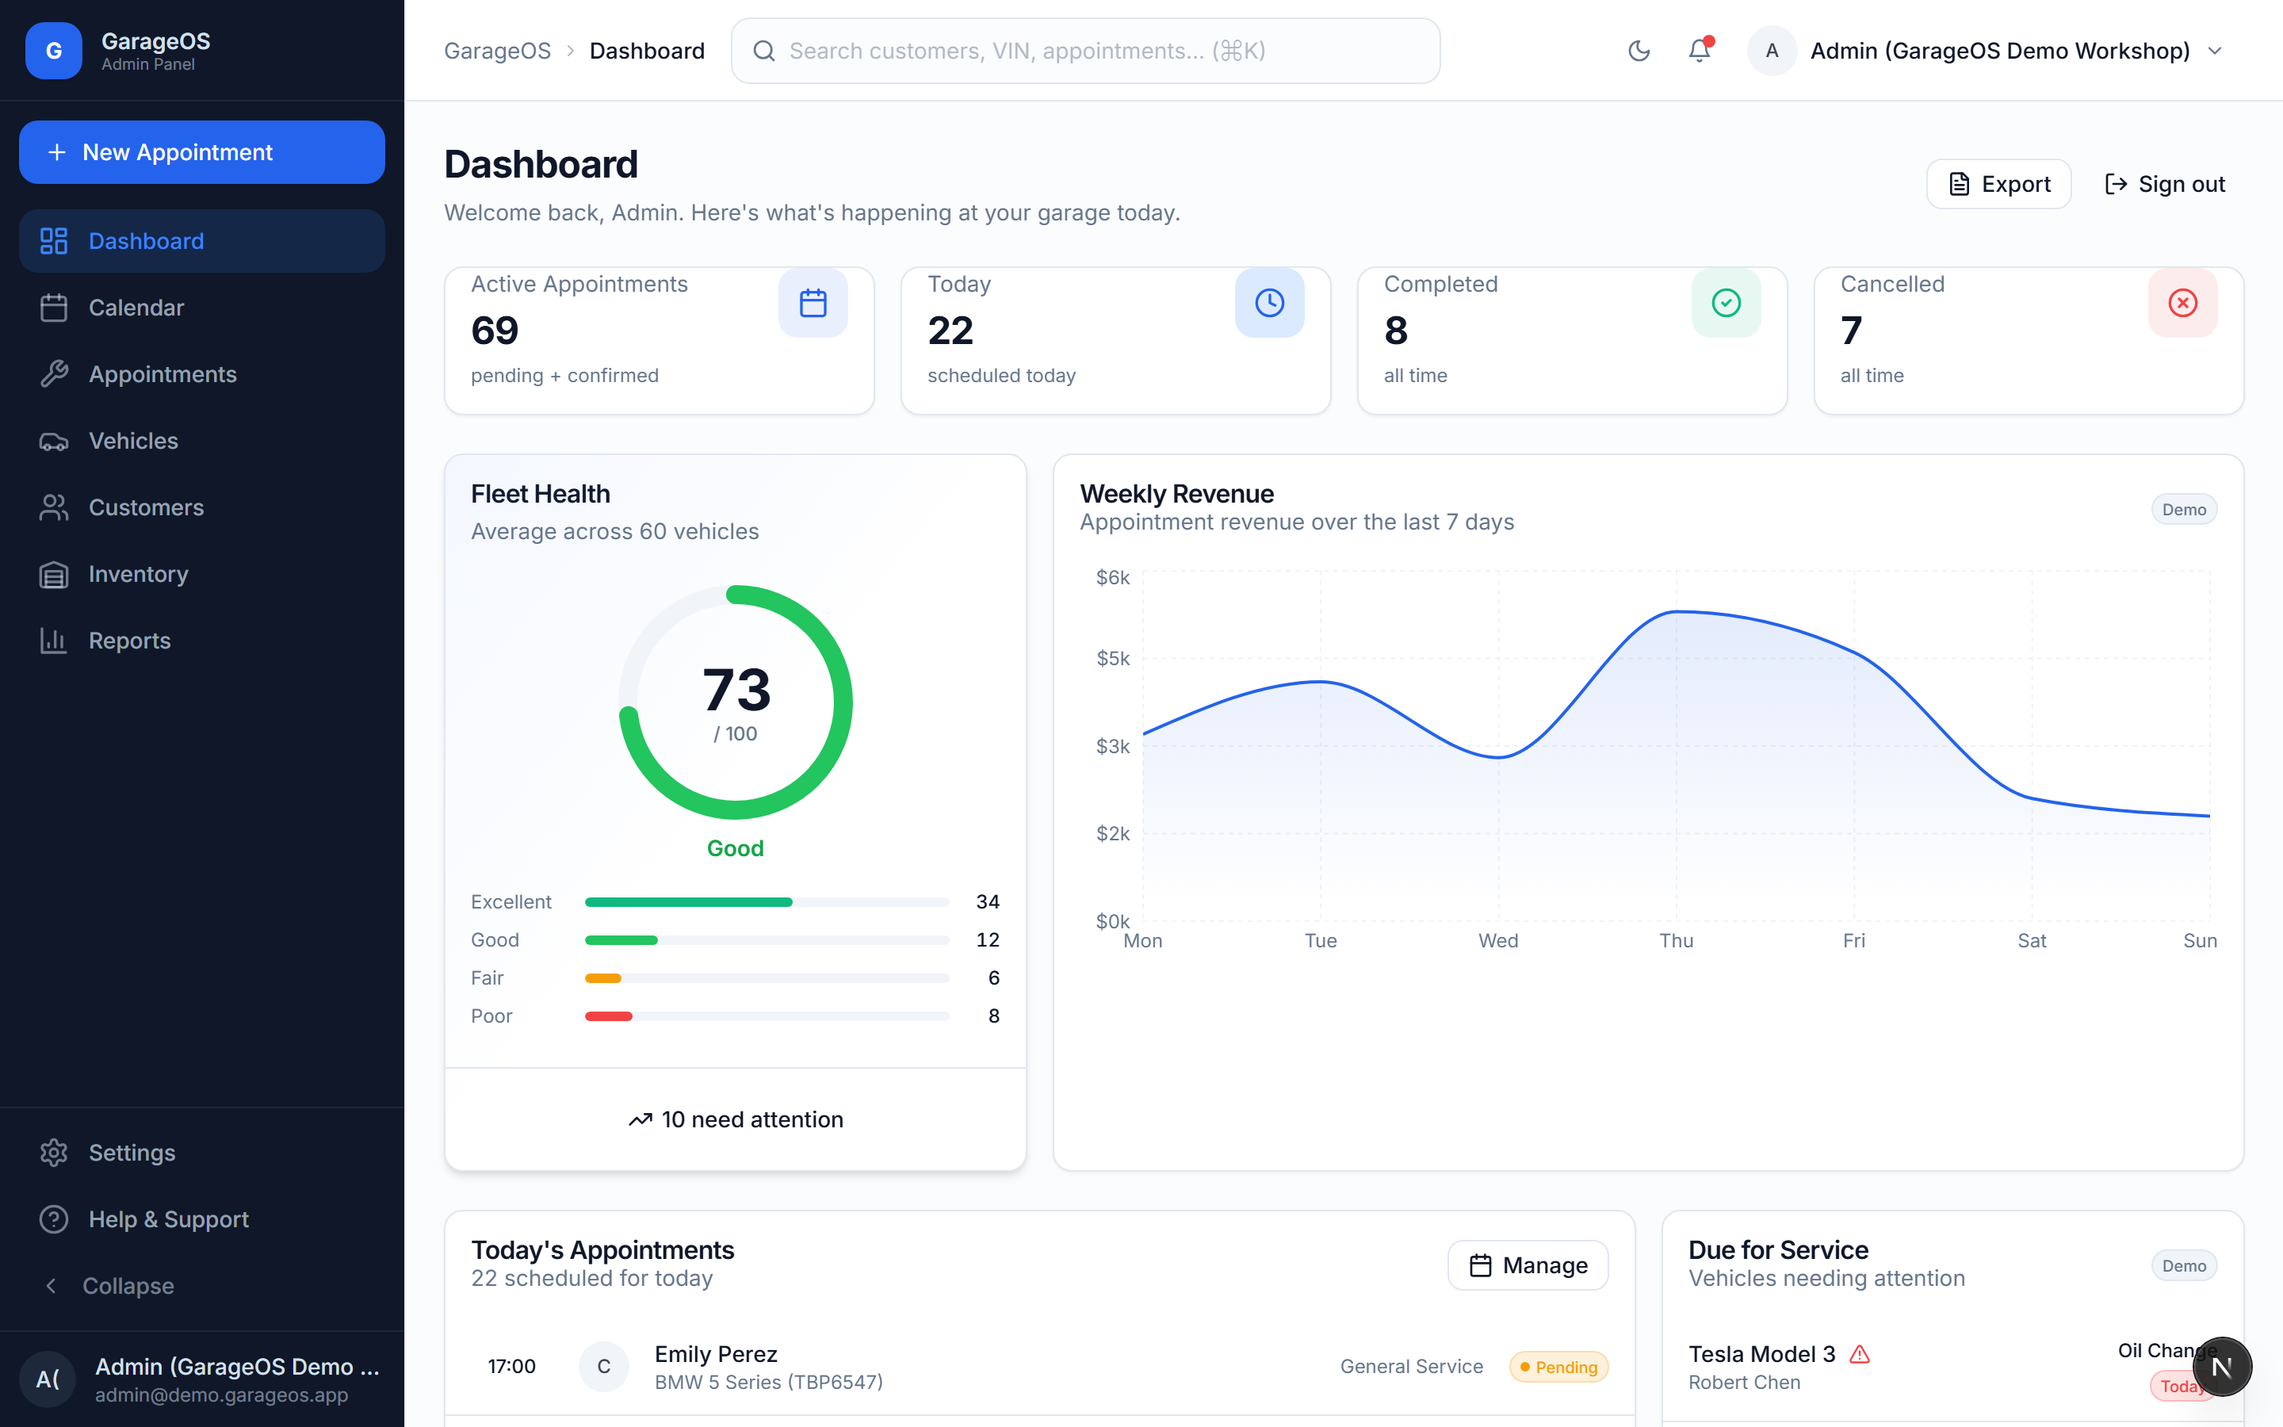
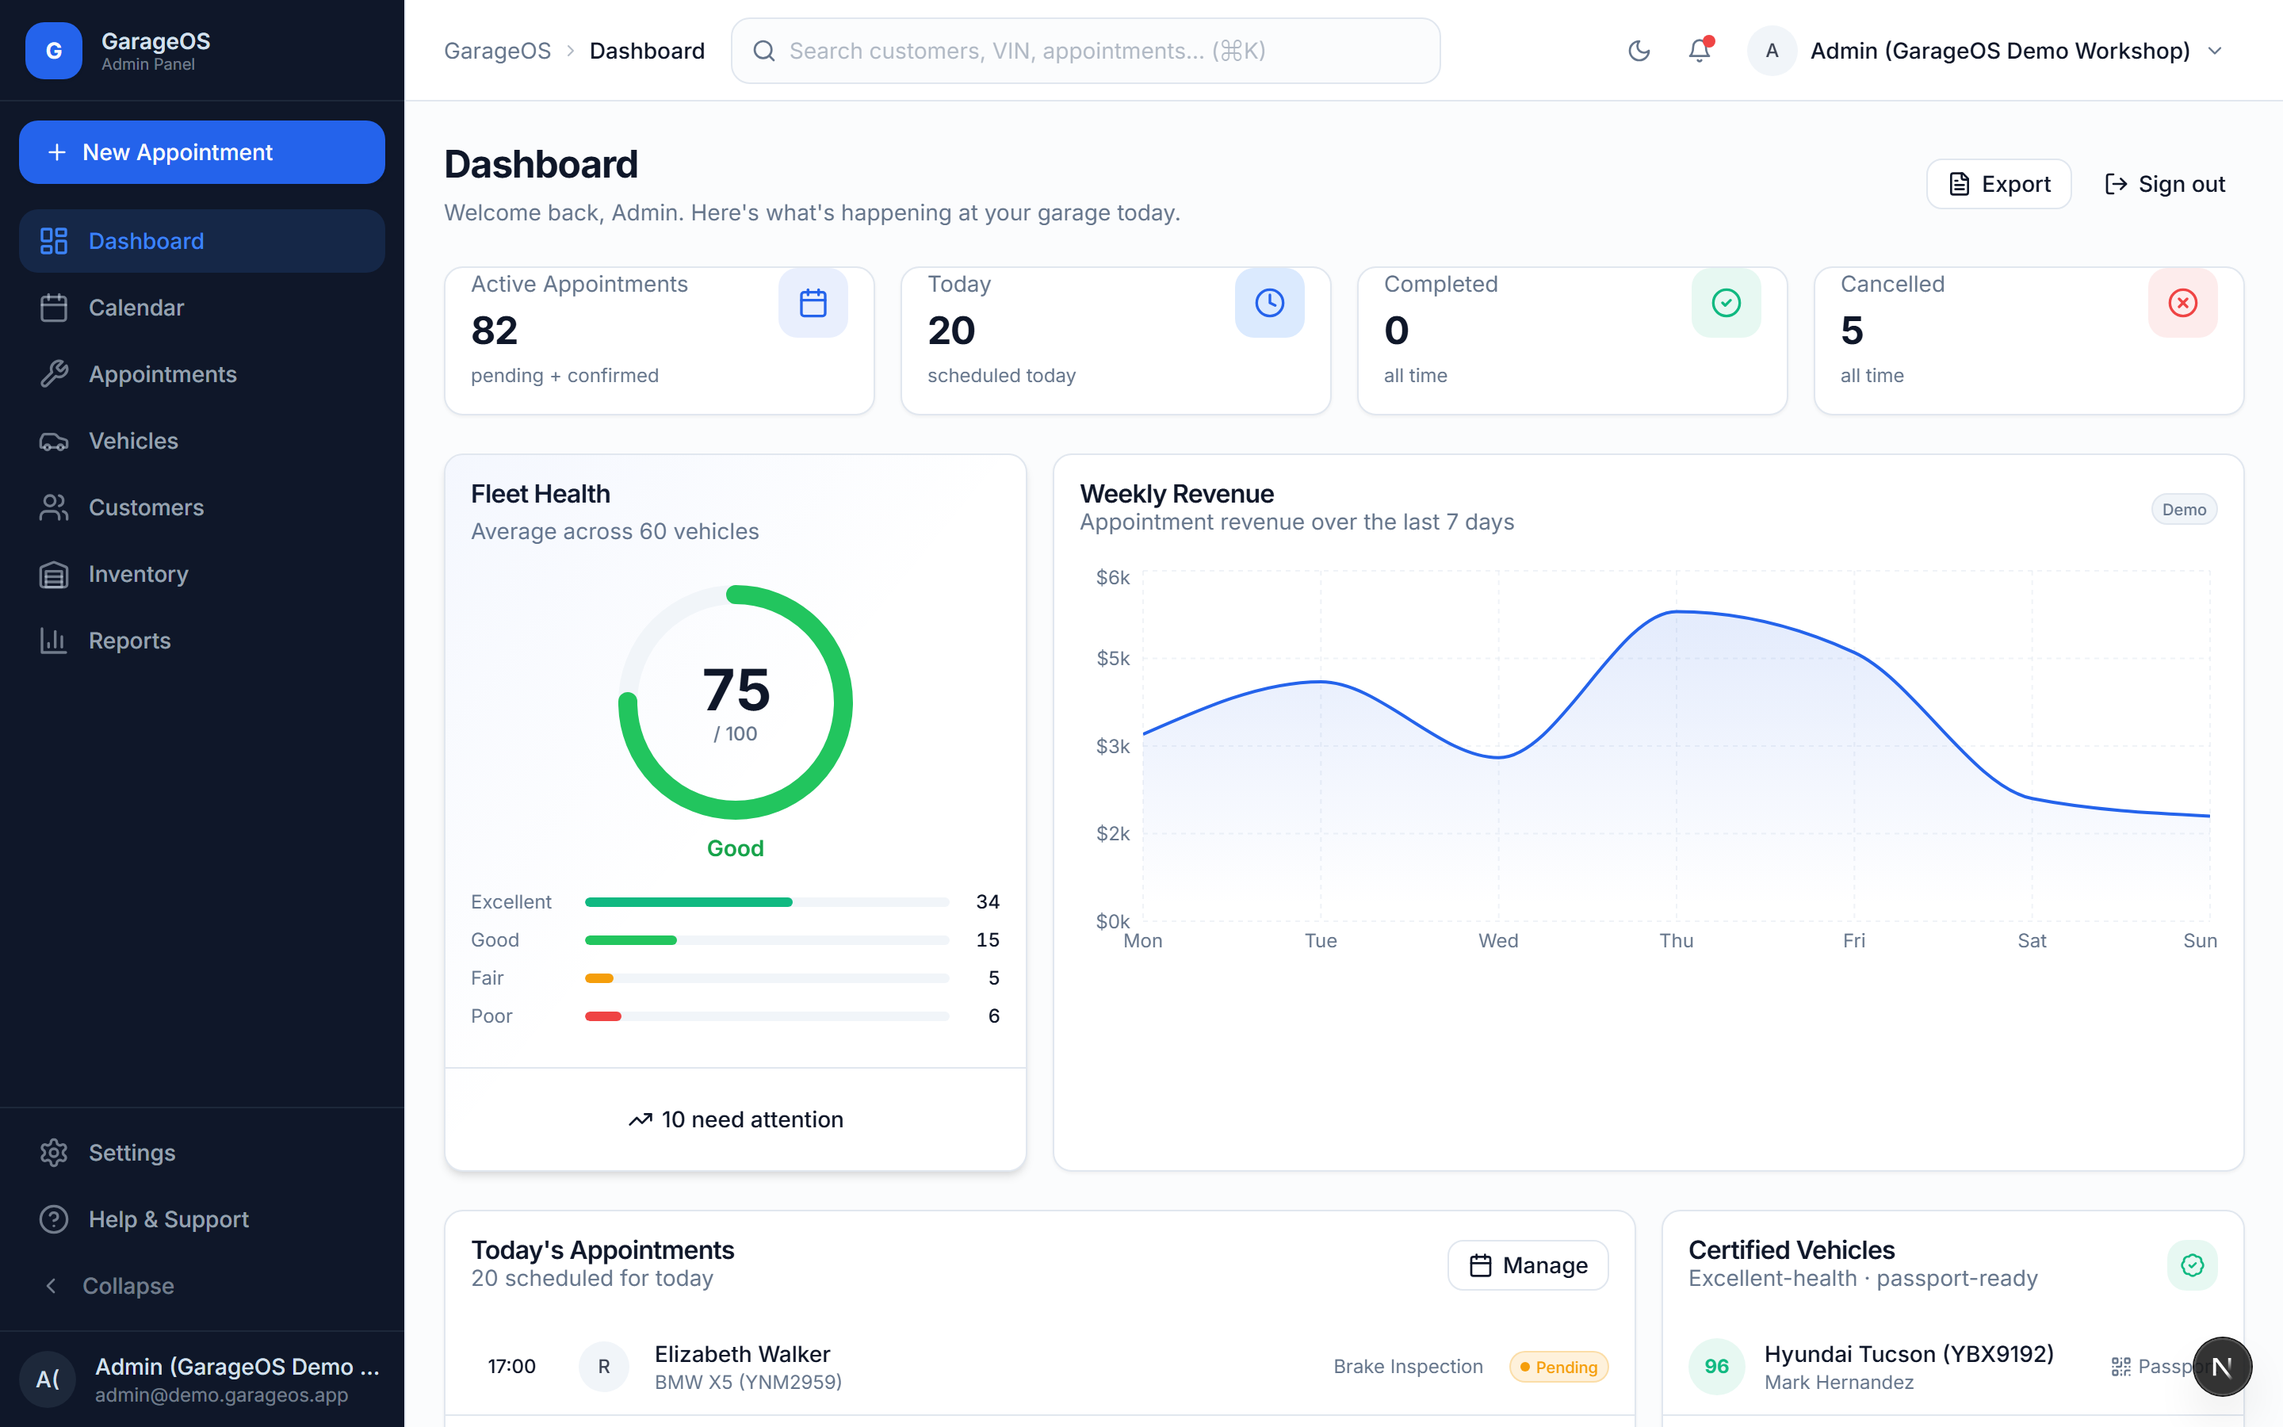
feat(passport): integrate passport across app + VERIFIED trust header
Discoverability over new features — the passport now shows up in natural flows:
- Public /passport page opens with a luxury-certificate VERIFIED banner
  (Verified · issued by <garage> · No. <code> · verified <date>) before the
  document, for a trust-first first impression.
- Calendar inspector drawer gains a 'View Certified Passport' action.
- Dashboard: replaced the demo 'Due for Service' widget with a live
  'Certified Vehicles' widget (top excellent-health vehicles), each row opening
  its passport. Backend fleet_health now also returns a certified list
  (reuses the same O(N) pass; list_active eager-loads the customer).

tsc clean; 29 backend tests pass.

diff --git a/garageos/admin-dashboard/components/dashboard/dashboard-client.tsx b/garageos/admin-dashboard/components/dashboard/dashboard-client.tsx
@@ -17,6 +17,8 @@ import {
   FileText,
   LogOut,
   CalendarCheck,
+  BadgeCheck,
+  QrCode,
 } from "lucide-react";
 import { EmptyState } from "@/components/states/empty-state";
 import {
@@ -83,12 +85,6 @@ const weeklyRevenue = [
   { day: "Fri", revenue: 4600 },
   { day: "Sat", revenue: 2100 },
   { day: "Sun", revenue: 1800 },
-];
-
-const vehiclesDue = [
-  { id: 1, customer: "Robert Chen", vehicle: "Tesla Model 3", nextService: "Oil Change", dueDate: "Today", urgent: true },
-  { id: 2, customer: "Sarah Williams", vehicle: "Ford F-150", nextService: "Brake Inspection", dueDate: "Tomorrow", urgent: false },
-  { id: 3, customer: "John Smith", vehicle: "Chevrolet Silverado", nextService: "Transmission Fluid", dueDate: "In 3 days", urgent: false },
 ];
 
 const STATUS_MAP: Record<string, { label: string; variant: string }> = {
@@ -296,35 +292,42 @@ export function DashboardClient({ userName, stats, today, fleet }: Props) {
           <CardHeader>
             <div className="flex items-center justify-between">
               <div>
-                <CardTitle>Due for Service</CardTitle>
-                <CardDescription>Vehicles needing attention</CardDescription>
+                <CardTitle>Certified Vehicles</CardTitle>
+                <CardDescription>Excellent-health · passport-ready</CardDescription>
               </div>
-              <DemoBadge />
+              <span className="grid size-8 place-items-center rounded-lg bg-success/10 text-success">
+                <BadgeCheck className="size-4" />
+              </span>
             </div>
           </CardHeader>
           <CardContent padding="none">
-            <div className="divide-y divide-border">
-              {vehiclesDue.map((v) => (
-                <div key={v.id} className="px-4 py-3 hover:bg-muted/30 transition-colors">
-                  <div className="flex items-start justify-between gap-2">
+            {fleet.certified.length === 0 ? (
+              <EmptyState compact icon={BadgeCheck} title="No certified vehicles yet"
+                description="Vehicles reaching excellent health become passport-ready and appear here." />
+            ) : (
+              <div className="divide-y divide-border">
+                {fleet.certified.map((v) => (
+                  <Link key={v.vehicle_id} href={`/passport/${v.vehicle_id}`} target="_blank"
+                    className="flex items-center gap-3 px-4 py-3 hover:bg-muted/30 transition-colors group">
+                    <span className="grid size-9 place-items-center rounded-full bg-success/10 text-success shrink-0 text-xs font-bold">
+                      {Math.round(v.score)}
+                    </span>
                     <div className="min-w-0 flex-1">
-                      <div className="flex items-center gap-2">
-                        <p className="text-sm font-medium text-foreground truncate">{v.vehicle}</p>
-                        {v.urgent && <AlertTriangle className="size-3.5 text-danger shrink-0" />}
-                      </div>
-                      <p className="text-xs text-muted-foreground truncate">{v.customer}</p>
+                      <p className="text-sm font-medium text-foreground truncate">{v.summary}</p>
+                      <p className="text-xs text-muted-foreground truncate">{v.owner_name ?? "—"}</p>
                     </div>
-                    <div className="text-right shrink-0">
-                      <p className="text-xs font-medium text-foreground">{v.nextService}</p>
-                      <Badge variant={v.urgent ? "danger" : "warning"} size="sm">{v.dueDate}</Badge>
-                    </div>
-                  </div>
-                </div>
-              ))}
-            </div>
+                    <span className="flex items-center gap-1 text-xs text-muted-foreground group-hover:text-primary transition-colors">
+                      <QrCode className="size-3.5" /> Passport
+                    </span>
+                  </Link>
+                ))}
+              </div>
+            )}
           </CardContent>
           <CardFooter>
-            <Button variant="ghost" size="sm" fullWidth leftIcon={<Car className="size-4" />}>View All Vehicles</Button>
+            <Link href="/vehicles" className="w-full">
+              <Button variant="ghost" size="sm" fullWidth leftIcon={<Car className="size-4" />}>View All Vehicles</Button>
+            </Link>
           </CardFooter>
         </Card>
       </div>

diff --git a/garageos/admin-dashboard/components/passport/passport.css b/garageos/admin-dashboard/components/passport/passport.css
@@ -155,13 +155,34 @@
   white-space: nowrap; overflow: hidden; text-transform: uppercase; }
 .pp-legal { display: flex; justify-content: space-between; font-size: 9px; color: var(--muted); margin-top: 8px; }
 
+/* Verification banner (trust-first landing) */
+.pp-verified {
+  width: 820px; max-width: 100%; margin: 0 auto 16px; text-align: center;
+  border: 1px solid var(--line); border-top: 3px solid var(--accent); border-radius: 14px;
+  background: linear-gradient(180deg, #fff, var(--paper)); padding: 22px 24px 20px;
+  font-family: "Segoe UI", system-ui, sans-serif; color: var(--ink);
+  box-shadow: 0 18px 40px -30px rgba(21,18,12,.5);
+}
+.pp-verified .pp-vbadge {
+  display: inline-flex; align-items: center; gap: 8px; padding: 6px 14px; border-radius: 999px;
+  background: var(--accent-soft); color: var(--accent); font-size: 12px; font-weight: 800;
+  letter-spacing: .18em; text-transform: uppercase;
+}
+.pp-verified .pp-vcheck { width: 18px; height: 18px; border-radius: 50%; background: var(--accent); color: #fff;
+  display: grid; place-items: center; font-size: 11px; }
+.pp-verified .pp-vtitle { font-family: "Bodoni MT", Georgia, serif; font-size: 22px; letter-spacing: .04em; margin-top: 12px; }
+.pp-verified .pp-vmeta { display: flex; align-items: center; justify-content: center; gap: 28px; margin-top: 12px; flex-wrap: wrap; }
+.pp-verified .pp-vk { font-size: 9px; letter-spacing: .16em; text-transform: uppercase; color: var(--muted); }
+.pp-verified .pp-vv { font-size: 13px; font-weight: 600; margin-top: 2px; }
+.pp-verified .pp-vv.pp-mono { font-family: "Consolas", monospace; }
+
 /* Action bar (screen only) */
 .pp-actions { display: flex; align-items: center; gap: 8px; width: 820px; max-width: 100%; margin: 0 auto 14px; }
 .pp-actions-spacer { flex: 1; }
 
 /* Print: just the document, edge to edge, no chrome */
 @media print {
-  .pp-actions { display: none !important; }
+  .pp-actions, .pp-verified { display: none !important; }
   .pp-root { width: 100%; box-shadow: none; margin: 0; }
   @page { size: A4; margin: 12mm; }
 }

diff --git a/garageos/admin-dashboard/components/passport/passport-verified.tsx b/garageos/admin-dashboard/components/passport/passport-verified.tsx
@@ -1,0 +1,43 @@
+import type { CSSProperties } from "react";
+import type { HealthBand, Passport } from "@/lib/api/types";
+
+const ACCENT: Record<HealthBand, { accent: string; soft: string }> = {
+  excellent: { accent: "#0E8A5F", soft: "#E8F2EC" },
+  good: { accent: "#1F6FEB", soft: "#E7EEFC" },
+  fair: { accent: "#B07A22", soft: "#F6EEDD" },
+  poor: { accent: "#B4442E", soft: "#F7E5E1" },
+};
+
+// Trust-first landing header — like checking a luxury-watch certificate. Shown
+// above the document so the first impression is authenticity, not just data.
+export function PassportVerified({ passport }: { passport: Passport }) {
+  const { accent, soft } = ACCENT[passport.health.band];
+  const style = { "--accent": accent, "--accent-soft": soft } as CSSProperties;
+  const verifiedOn = new Date(passport.issued_at).toLocaleDateString("en-US", {
+    month: "long",
+    year: "numeric",
+  });
+
+  return (
+    <div className="pp-verified" style={style}>
+      <div className="pp-vbadge">
+        <span className="pp-vcheck">✓</span> Verified
+      </div>
+      <div className="pp-vtitle">Digital Vehicle Passport</div>
+      <div className="pp-vmeta">
+        <div>
+          <div className="pp-vk">Issued by</div>
+          <div className="pp-vv">{passport.garage.name}</div>
+        </div>
+        <div>
+          <div className="pp-vk">Passport No.</div>
+          <div className="pp-vv pp-mono">{passport.code}</div>
+        </div>
+        <div>
+          <div className="pp-vk">Verified</div>
+          <div className="pp-vv">{verifiedOn}</div>
+        </div>
+      </div>
+    </div>
+  );
+}

diff --git a/garageos/admin-dashboard/components/calendar/calendar-client.tsx b/garageos/admin-dashboard/components/calendar/calendar-client.tsx
@@ -12,6 +12,7 @@ import {
   Loader2,
   Phone,
   Plus,
+  QrCode,
   Send,
   Users,
   Wrench,
@@ -645,6 +646,9 @@ function InspectorDrawer({ appointment, onClose, onChanged }: { appointment: App
                 <div className="text-sm"><p className="font-medium text-foreground capitalize">{health.band}</p><p className="text-muted-foreground">{health.urgent_count} overdue · {health.due_soon_count} due soon</p></div>
               </div>
             ) : <p className="text-xs text-muted-foreground mt-2">Loading health…</p>}
+            <Link href={`/passport/${appointment.vehicle_id}`} target="_blank" className="mt-3 flex items-center justify-center gap-2 rounded-lg border border-border py-2 text-xs font-medium text-foreground hover:border-primary/40 hover:bg-muted/40 transition-colors">
+              <QrCode className="size-3.5" /> View Certified Passport
+            </Link>
           </div>
           {due && due.services.length > 0 && (
             <div className="rounded-xl border border-border p-4">

diff --git a/garageos/admin-dashboard/app/passport/[id]/page.tsx b/garageos/admin-dashboard/app/passport/[id]/page.tsx
@@ -6,6 +6,7 @@ import { FileWarning } from "lucide-react";
 import { getPublicPassport } from "@/lib/api/server";
 import { PassportDocument } from "@/components/passport/passport-document";
 import { PassportActions } from "@/components/passport/passport-actions";
+import { PassportVerified } from "@/components/passport/passport-verified";
 
 export const dynamic = "force-dynamic";
 
@@ -58,6 +59,7 @@ export default async function PassportPage({ params }: { params: Promise<{ id: s
     <div className="min-h-screen bg-[#4c5462] py-8 print:bg-white print:py-0">
       <div className="mx-auto w-[820px] max-w-full">
         <PassportActions />
+        <PassportVerified passport={passport} />
         <PassportDocument passport={passport} qrSvg={qrSvg} verifyUrl={url} />
       </div>
     </div>

diff --git a/garageos/admin-dashboard/lib/api/types.ts b/garageos/admin-dashboard/lib/api/types.ts
@@ -120,12 +120,21 @@ export interface VehicleList {
   count: number;
 }
 
+export interface CertifiedVehicle {
+  vehicle_id: string;
+  summary: string;
+  score: number;
+  band: HealthBand;
+  owner_name: string | null;
+}
+
 export interface FleetHealth {
   evaluated_count: number;
   average_score: number;
   band: HealthBand;
   distribution: { excellent: number; good: number; fair: number; poor: number };
   needs_attention: { vehicle_id: string; summary: string; score: number; urgent_count: number }[];
+  certified: CertifiedVehicle[];
 }
 
 // ─── Calendar ────────────────────────────────────────────────

diff --git a/garageos/backend/app/services/vehicle_health_service.py b/garageos/backend/app/services/vehicle_health_service.py
@@ -215,6 +215,7 @@ class VehicleHealthService:
         vehicles = await self.vehicle_repo.list_active(limit=limit)
         scores: List[float] = []
         attention: List[dict] = []
+        certified: List[dict] = []
         for vehicle in vehicles:
             report = await self.maintenance.calculate_due_services(vehicle.id)
             scores.append(report.overall_score)
@@ -225,8 +226,19 @@ class VehicleHealthService:
                     "score": report.overall_score,
                     "urgent_count": report.urgent_count,
                 })
+            if _band(report.overall_score) == "excellent":
+                certified.append({
+                    "vehicle_id": str(vehicle.id),
+                    "summary": _vehicle_label(vehicle),
+                    "score": report.overall_score,
+                    "band": "excellent",
+                    "owner_name": (
+                        vehicle.customer.full_name if getattr(vehicle, "customer", None) else None
+                    ),
+                })
 
         n = len(scores)
+        certified.sort(key=lambda c: c["score"], reverse=True)
         average = round(sum(scores) / n, 1) if n else 0.0
         distribution = {
             "excellent": sum(1 for s in scores if s >= 80),
@@ -241,6 +253,7 @@ class VehicleHealthService:
             "band": _band(average),
             "distribution": distribution,
             "needs_attention": attention[:10],
+            "certified": certified[:6],
         }
 
     async def _service_center(self) -> ServiceCenter | None:

diff --git a/garageos/backend/app/repositories/vehicle_repository.py b/garageos/backend/app/repositories/vehicle_repository.py
@@ -27,11 +27,12 @@ class VehicleRepository(TenantScopedRepository[Vehicle]):
         return result.scalar_one_or_none()
 
     async def list_active(self, limit: int = 500) -> Sequence[Vehicle]:
-        """Active vehicles for this tenant, model+brand loaded (fleet views)."""
+        """Active vehicles for this tenant, model+brand+customer loaded (fleet views)."""
         stmt = self._scope(
             select(Vehicle).where(Vehicle.is_active == True)
         ).options(
-            selectinload(Vehicle.vehicle_model).selectinload(VehicleModel.brand)
+            selectinload(Vehicle.vehicle_model).selectinload(VehicleModel.brand),
+            selectinload(Vehicle.customer),
         ).limit(limit)
         result = await self.session.execute(stmt)
         return result.scalars().all()
